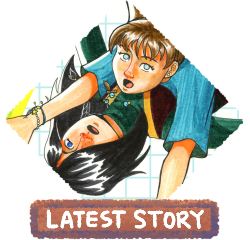
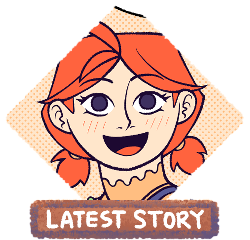
Story 10

diff --git a/public/scripts/global.js b/public/scripts/global.js
@@ -1,5 +1,5 @@
 // UPDATE THE BELOW VAR FOR EACH UPDATE!!
-var latestStory = 10;
+var latestStory = 11;
 var storyURL = "story-";
 
 function storyButtons(index) {
